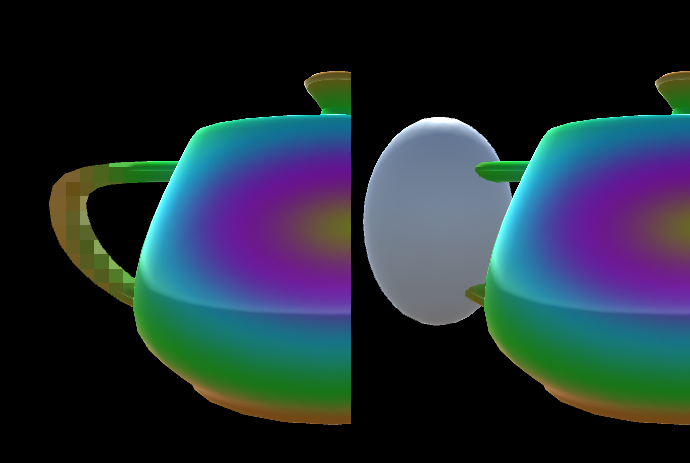
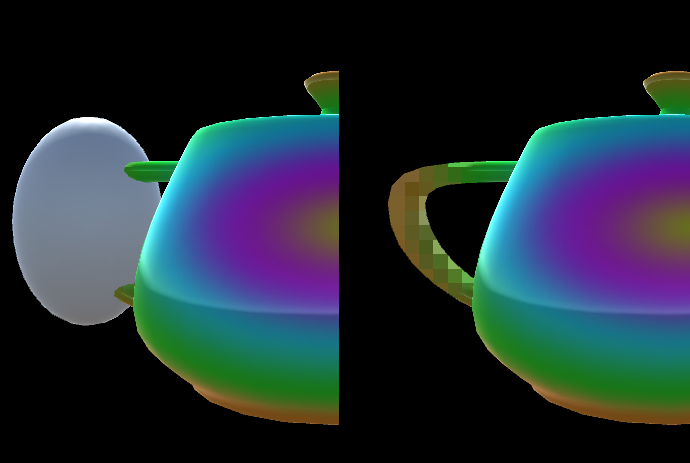
Working on docs.

Changed region(s): [[0.487, 0.1512, 0.913, 0.9374], [0.0, 0.2419, 0.2435, 0.7257], [0.913, 0.1512, 1.0, 0.2721]]

diff --git a/readme.md b/readme.md
@@ -27,10 +27,9 @@ Mosaic masks
 A cylinder can be used to mask which part of the object you want to mosaic.  For
 example, this can be used to mosaic only a game character's eyes.
 
-On the left, only the handle of the teapot is mosaiced.  On the right, the mask
-cylinder is visible for editing.  The cylinder can be scaled to fit the desired
-shape, and parented to the object or a character's skeleton so it follows the
-object.
+The left side shows the mask cylinder.  The right shows the result: just the handle
+of the teapot is blurred.  The cylinder can be scaled to fit the desired shape,
+and parented to the object or a character's skeleton so it follows the object.
 
 ![](Images/mask.png)
 
